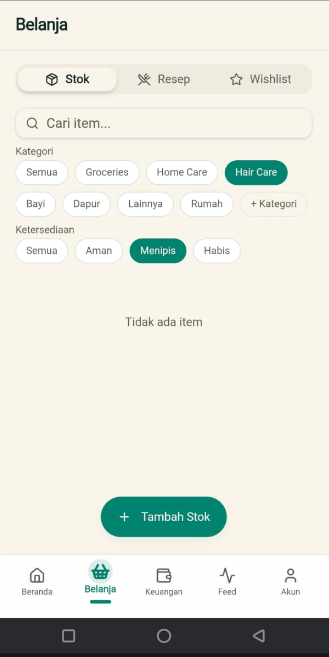
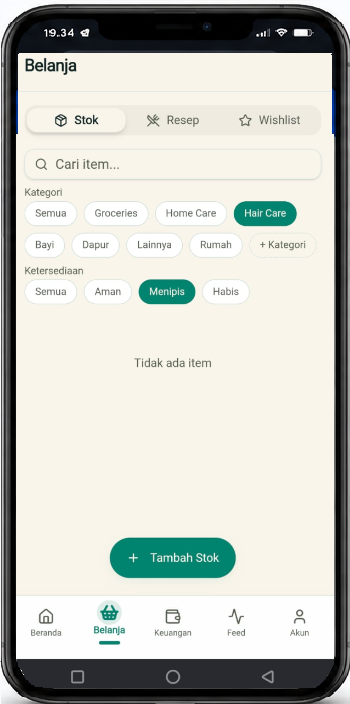
Update landing components, subscription gate, and various route pages

Changed region(s): [[0.0, 0.0, 1.0, 1.0], [0.304, 0.7306, 0.6991, 0.8219], [0.3647, 0.4871, 0.6079, 0.5479]]

diff --git a/src/routes/app.belanja.tsx b/src/routes/app.belanja.tsx
@@ -1,7 +1,8 @@
-import { createFileRoute } from "@tanstack/react-router";
+import { createFileRoute, Link } from "@tanstack/react-router";
 import { MainLayout } from "@/components/layout/MainLayout";
 import { useAuth } from "@/hooks/useAuth";
 import { useLang } from "@/hooks/useLang";
+import { useSubscriptionGate } from "@/hooks/useSubscriptionGate";
 import { useQuery, useMutation, useQueryClient, useInfiniteQuery } from "@tanstack/react-query";
 import { supabase } from "@/integrations/supabase/client";
 import { Tabs, TabsContent, TabsList, TabsTrigger } from "@/components/ui/tabs";
@@ -11,7 +12,7 @@ import { Label } from "@/components/ui/label";
 import { Textarea } from "@/components/ui/textarea";
 import { Dialog, DialogContent, DialogHeader, DialogTitle, DialogTrigger, DialogFooter } from "@/components/ui/dialog";
 import { Select, SelectContent, SelectItem, SelectTrigger, SelectValue } from "@/components/ui/select";
-import { Plus, Trash2, Minus, Search, Edit2, ShoppingCart, Star, Package, UtensilsCrossed, Image as ImageIcon } from "lucide-react";
+import { Plus, Trash2, Minus, Search, Edit2, ShoppingCart, Star, Package, UtensilsCrossed, Image as ImageIcon, Lock } from "lucide-react";
 import { useState, useMemo, useRef, useEffect, useCallback } from "react";
 import { ConfirmDialog } from "@/components/ui/ConfirmDialog";
 import { toast } from "sonner";
@@ -33,8 +34,10 @@ const RECIPES_PER_PAGE = 12;
 
 function BelanjaPage() {
   const { T } = useLang();
+  const limits = useSubscriptionGate();
   const params = new URLSearchParams(typeof window !== "undefined" ? window.location.search : "");
-  const initialTab = params.get("tab") === "wishlist" ? "wishlist" : params.get("tab") === "recipe" ? "recipe" : "stock";
+  const wishlistParam = params.get("tab") === "wishlist";
+  const initialTab = wishlistParam && !limits.canAccessWishlist ? "stock" : params.get("tab") === "wishlist" ? "wishlist" : params.get("tab") === "recipe" ? "recipe" : "stock";
   const [activeTab, setActiveTab] = useState(initialTab);
 
   return (
@@ -47,9 +50,30 @@ function BelanjaPage() {
         </TabsList>
         <TabsContent value="stock" className="mt-4"><StockTab /></TabsContent>
         <TabsContent value="recipe" className="mt-4"><RecipeTab /></TabsContent>
-        <TabsContent value="wishlist" className="mt-4"><WishlistTab /></TabsContent>
+        <TabsContent value="wishlist" className="mt-4">{limits.canAccessWishlist ? <WishlistTab /> : <WishlistPaywall />}</TabsContent>
       </Tabs>
     </MainLayout>
+  );
+}
+
+function WishlistPaywall() {
+  const { T } = useLang();
+  return (
+    <div className="flex flex-col items-center justify-center py-16 px-4 text-center">
+      <div className="h-16 w-16 rounded-2xl bg-muted flex items-center justify-center mb-4">
+        <Lock className="h-8 w-8 text-muted-foreground" />
+      </div>
+      <h1 className="text-xl font-bold mb-2">{T("Fitur Premium", "Premium Feature")}</h1>
+      <p className="text-sm text-muted-foreground mb-6 max-w-xs">
+        {T(
+          "Wishlist tersedia untuk paket Family. Upgrade sekarang untuk mengelola wishlist belanja keluarga.",
+          "Wishlist is available for Family plan. Upgrade now to manage family shopping wishlist."
+        )}
+      </p>
+      <Button asChild className="rounded-xl">
+        <Link to="/aktivasi">{T("Upgrade ke Family", "Upgrade to Family")}</Link>
+      </Button>
+    </div>
   );
 }
 

diff --git a/src/routes/app.keuangan.tsx b/src/routes/app.keuangan.tsx
@@ -1,8 +1,9 @@
-import { createFileRoute, useNavigate } from "@tanstack/react-router";
+import { createFileRoute, useNavigate, Link } from "@tanstack/react-router";
 import { z } from "zod";
 import { MainLayout } from "@/components/layout/MainLayout";
 import { useAuth } from "@/hooks/useAuth";
 import { useLang } from "@/hooks/useLang";
+import { useSubscriptionGate } from "@/hooks/useSubscriptionGate";
 import { useQuery, useMutation, useQueryClient } from "@tanstack/react-query";
 import { supabase } from "@/integrations/supabase/client";
 import { formatRupiah, cn, daysUntil, normalizePhone } from "@/lib/utils";
@@ -10,7 +11,7 @@ import { useState, useMemo, useRef } from "react";
 import { toast } from "sonner";
 import {
   Plus, Trash2, MessageCircle, ChevronDown, FileDown, Search,
-  TrendingDown, Coins, Wallet, Banknote, Calendar, ReceiptText, CheckCircle2, BellRing,
+  TrendingDown, Coins, Wallet, Banknote, Calendar, ReceiptText, CheckCircle2, BellRing, Lock,
 } from "lucide-react";
 import { Button } from "@/components/ui/button";
 import { Input } from "@/components/ui/input";
@@ -39,7 +40,30 @@ export const Route = createFileRoute("/app/keuangan")({
 function KeuanganPage() {
   const { profile, family } = useAuth();
   const { T } = useLang();
+  const limits = useSubscriptionGate();
   const familyId = family?.id;
+
+  if (!limits.canAccessFinance) {
+    return (
+      <MainLayout>
+        <div className="flex flex-col items-center justify-center py-16 px-4 text-center">
+          <div className="h-16 w-16 rounded-2xl bg-muted flex items-center justify-center mb-4">
+            <Lock className="h-8 w-8 text-muted-foreground" />
+          </div>
+          <h1 className="text-xl font-bold mb-2">{T("Fitur Premium", "Premium Feature")}</h1>
+          <p className="text-sm text-muted-foreground mb-6 max-w-xs">
+            {T(
+              "Keuangan tersedia untuk paket Family. Upgrade sekarang untuk mengelola tagihan dan hutang piutang keluarga.",
+              "Finance is available for Family plan. Upgrade now to manage bills and family debts."
+            )}
+          </p>
+          <Button asChild className="rounded-xl">
+            <Link to="/aktivasi">{T("Upgrade ke Family", "Upgrade to Family")}</Link>
+          </Button>
+        </div>
+      </MainLayout>
+    );
+  }
   const qc = useQueryClient();
   const navigate = useNavigate({ from: "/app/keuangan" });
   const search = Route.useSearch();

diff --git a/src/routes/app.akun.tsx b/src/routes/app.akun.tsx
@@ -21,6 +21,7 @@ import {
 import { cn, initials, normalizePhone, timeAgo } from "@/lib/utils";
 import { useTheme } from "@/hooks/useTheme";
 import { useLang } from "@/hooks/useLang";
+import { useSubscriptionGate } from "@/hooks/useSubscriptionGate";
 
 export const Route = createFileRoute("/app/akun")({
   head: () => ({ meta: [{ title: "Akun — Rewang" }] }),
@@ -29,6 +30,7 @@ export const Route = createFileRoute("/app/akun")({
 
 function AkunPage() {
   const { profile, family, signOut } = useAuth();
+  const limits = useSubscriptionGate();
   const navigate = useNavigate();
   const handleSignOut = async () => { await signOut(); navigate({ to: "/login" }); };
 
@@ -36,13 +38,13 @@ function AkunPage() {
     <MainLayout title="Akun">
       <ProfileSection />
 
-      <FamilySection />
+      <FamilySection limits={limits} />
 
       <EmergencyContactsSection familyId={family?.id} />
 
       <DocumentsSection familyId={family?.id} />
 
-      <WishlistShortcut familyId={family?.id} />
+      {limits.canAccessWishlist && <WishlistShortcut familyId={family?.id} />}
 
       <SettingsSection onSignOut={handleSignOut} />
 
@@ -125,7 +127,7 @@ function ProfileSection() {
 
 /* ============== FAMILY ============== */
 
-function FamilySection() {
+function FamilySection({ limits }: { limits?: { canAccessWishlist?: boolean } }) {
   const { family, profile } = useAuth();
   const qc = useQueryClient();
 
@@ -155,14 +157,16 @@ function FamilySection() {
       </div>
       <p className="text-sm text-muted-foreground mb-2">{family?.family_name}</p>
 
-      <div className="bg-gradient-to-br from-accent/40 to-secondary rounded-xl p-3 mb-4">
-        <p className="text-[10px] uppercase tracking-wider text-muted-foreground font-semibold mb-1">Kode undangan</p>
-        <div className="flex items-center gap-2">
-          <p className="font-mono text-2xl tracking-[0.3em] font-bold text-primary flex-1">{family?.invite_code ?? ""}</p>
-          <Button size="icon" variant="outline" onClick={copyCode}><Copy className="h-4 w-4" /></Button>
+      {limits?.canAccessWishlist !== false && (
+        <div className="bg-gradient-to-br from-accent/40 to-secondary rounded-xl p-3 mb-4">
+          <p className="text-[10px] uppercase tracking-wider text-muted-foreground font-semibold mb-1">Kode undangan</p>
+          <div className="flex items-center gap-2">
+            <p className="font-mono text-2xl tracking-[0.3em] font-bold text-primary flex-1">{family?.invite_code ?? ""}</p>
+            <Button size="icon" variant="outline" onClick={copyCode}><Copy className="h-4 w-4" /></Button>
+          </div>
+          <p className="text-[11px] text-muted-foreground mt-1.5">Bagikan ke anggota keluarga untuk bergabung</p>
         </div>
-        <p className="text-[11px] text-muted-foreground mt-1.5">Bagikan ke anggota keluarga untuk bergabung</p>
-      </div>
+      )}
 
       <p className="text-xs font-semibold text-muted-foreground mb-2">Anggota ({members.length})</p>
       <div className="space-y-2">

diff --git a/src/routes/admin-rewang-control.tsx b/src/routes/admin-rewang-control.tsx
@@ -54,6 +54,7 @@ interface ProfileRow {
   is_active?: boolean | null;
   subscription_tier?: string | null;
   subscription_expires_at?: string | null;
+  last_active_at?: string | null;
 }
 
 interface EditableUser {
@@ -141,7 +142,7 @@ function AdminPanelContent({
       const { data, error } = await supabase
         .from("profiles")
         .select(
-          "id, email, full_name, avatar_url, role, is_active, subscription_tier, subscription_expires_at",
+          "id, email, full_name, avatar_url, role, is_active, subscription_tier, subscription_expires_at, last_active_at",
         )
         .order("email", { ascending: true });
 
@@ -283,6 +284,9 @@ function AdminPanelContent({
       Tier: user.subscription_tier || "none",
       Expired: user.subscription_expires_at
         ? new Date(user.subscription_expires_at).toLocaleDateString("id-ID")
+        : "-",
+      "Last Login": user.last_active_at
+        ? new Date(user.last_active_at).toLocaleDateString("id-ID", { day: "numeric", month: "short", year: "numeric" }) + " " + new Date(user.last_active_at).toLocaleTimeString("id-ID", { hour: "2-digit", minute: "2-digit" })
         : "-",
     }));
 
@@ -549,6 +553,9 @@ function AdminPanelContent({
                       </div>
                     </th>
                     <th className="px-4 py-3 font-medium text-[#6b7d6a]">
+                      Last Login
+                    </th>
+                    <th className="px-4 py-3 font-medium text-[#6b7d6a]">
                       Aksi
                     </th>
                   </tr>
@@ -651,6 +658,14 @@ function AdminPanelContent({
                             disabled={isExpiredDisabled}
                             className={`rounded-lg border px-2.5 py-1.5 text-xs transition-all focus:outline-none focus:ring-2 focus:ring-[#52b788]/30 ${isExpiredDisabled ? "bg-gray-100 border-gray-100 text-gray-300 cursor-not-allowed" : editable.subscription_expires_at ? "bg-white border-gray-200 text-gray-900" : "bg-gray-50 border-gray-100 text-gray-400"}`}
                           />
+                        </td>
+
+                        <td className="px-4 py-3">
+                          <span className="text-xs text-[#6b7d6a]">
+                            {user.last_active_at
+                              ? new Date(user.last_active_at).toLocaleDateString("id-ID", { day: "numeric", month: "short", year: "numeric" }) + " " + new Date(user.last_active_at).toLocaleTimeString("id-ID", { hour: "2-digit", minute: "2-digit" })
+                              : "—"}
+                          </span>
                         </td>
 
                         <td className="px-4 py-3">

diff --git a/src/components/landing/HeroSection.tsx b/src/components/landing/HeroSection.tsx
@@ -10,24 +10,32 @@ import {
   ChevronRight,
 } from "lucide-react";
 
+const bannerVersion = "v2"; // bump this when replacing banner images
+
+function getWaUrl() {
+  const base = "https://wa.me/6281294097650";
+  const text = "Halo Admin Rewang %F0%9F%91%8B%0A%0ASaya tertarik dengan Rewang App dan ingin informasi lebih lanjut mengenai paket langganan yang tersedia.%0A%0ATerima kasih %F0%9F%98%8A";
+  return `${base}?text=${text}`;
+}
+
 const slides = [
   {
     id: 1,
     title: "Dashboard",
     subtitle: "Semua dalam satu layar",
-    image: "/images/banner/1.png",
+    image: `/images/banner/1.png?${bannerVersion}`,
   },
   {
     id: 2,
     title: "Agenda & Tugas",
     subtitle: "Atur jadwal keluarga",
-    image: "/images/banner/2.png",
+    image: `/images/banner/2.png?${bannerVersion}`,
   },
   {
     id: 3,
     title: "Belanja & Keuangan",
     subtitle: "Pantau pengeluaran",
-    image: "/images/banner/3.png",
+    image: `/images/banner/3.png?${bannerVersion}`,
   },
 ];
 
@@ -111,7 +119,7 @@ export function HeroSection() {
                 <ArrowRight className="h-5 w-5 transition-transform group-hover:translate-x-1" />
               </Link>
               <a
-                href="https://wa.me/6281311474713"
+                href={getWaUrl()}
                 target="_blank"
                 rel="noopener noreferrer"
                 className="group inline-flex items-center gap-2 rounded-2xl border-2 border-[#b5c99a] bg-white/80 backdrop-blur-sm px-8 py-4 text-base font-semibold text-[#4a6b5d] hover:bg-[#e8f5e9] hover:border-[#7d9b76] shadow-soft transition-all duration-300"

diff --git a/src/components/landing/PricingSection.tsx b/src/components/landing/PricingSection.tsx
@@ -1,6 +1,14 @@
 import { Check, Zap, Star } from "lucide-react";
 import { Link } from "@tanstack/react-router";
 
+function getWaUrl(planName?: string) {
+  const base = "https://wa.me/6281294097650";
+  const text = planName
+    ? `Halo Admin Rewang %F0%9F%91%8B%0A%0ASaya ingin berlangganan Paket ${planName} untuk penggunaan Rewang App.%0A%0AMohon informasi mengenai proses pembayaran dan aktivasi akun.%0A%0ATerima kasih %F0%9F%98%8A`
+    : "Halo Admin Rewang %F0%9F%91%8B%0A%0ASaya tertarik dengan Rewang App dan ingin informasi lebih lanjut mengenai paket langganan yang tersedia.%0A%0ATerima kasih %F0%9F%98%8A";
+  return `${base}?text=${text}`;
+}
+
 const plans = [
   {
     name: "Starter",
@@ -121,7 +129,7 @@ export function PricingSection() {
 
               {/* CTA */}
               <a
-                href="https://wa.me/6281311474713"
+                href={getWaUrl(plan.name)}
                 target="_blank"
                 rel="noopener noreferrer"
                 className={`block w-full text-center rounded-2xl px-6 py-3.5 text-sm font-semibold transition-all duration-300 ${plan.buttonStyle}`}
@@ -136,7 +144,7 @@ export function PricingSection() {
         <p className="text-center text-sm text-[#9db5a6] mt-8">
           Butuh bantuan memilih?{" "}
           <a
-            href="https://wa.me/6281311474713"
+            href={getWaUrl()}
             target="_blank"
             rel="noopener noreferrer"
             className="text-[#52b788] font-semibold hover:underline"

diff --git a/src/components/landing/CTASection.tsx b/src/components/landing/CTASection.tsx
@@ -1,6 +1,12 @@
 import { MessageCircle, ArrowRight, Sparkles } from "lucide-react";
 import { Link } from "@tanstack/react-router";
 
+function getWaUrl() {
+  const base = "https://wa.me/6281294097650";
+  const text = "Halo Admin Rewang %F0%9F%91%8B%0A%0ASaya tertarik dengan Rewang App dan ingin informasi lebih lanjut mengenai paket langganan yang tersedia.%0A%0ATerima kasih %F0%9F%98%8A";
+  return `${base}?text=${text}`;
+}
+
 export function CTASection() {
   return (
     <section className="relative py-12 sm:py-16 lg:py-20 overflow-hidden">
@@ -43,7 +49,7 @@ export function CTASection() {
 
         <div className="mt-10 flex flex-col sm:flex-row items-center gap-4 justify-center">
           <a
-            href="https://wa.me/6281311474713"
+            href={getWaUrl()}
             target="_blank"
             rel="noopener noreferrer"
             className="group inline-flex items-center gap-2 rounded-2xl bg-white px-8 py-4 text-base font-semibold text-[#2d6a4f] shadow-2xl shadow-black/20 hover:shadow-xl hover:-translate-y-0.5 transition-all duration-300"

diff --git a/src/routes/app.tsx b/src/routes/app.tsx
@@ -48,7 +48,11 @@ function AppLayout() {
   // Cek apakah akun aktif, punya tier valid, dan belum expired
   const sekarang = new Date();
   const tanggalExpired = profile?.subscription_expires_at ? new Date(profile.subscription_expires_at) : null;
-  const akunTerkunci = !profile?.is_active || profile?.subscription_tier === "none" || (tanggalExpired && sekarang >= tanggalExpired);
+  // Expired at end of the expiration day (23:59:59), not start of day
+  const isExpired = tanggalExpired
+    ? sekarang >= new Date(tanggalExpired.getFullYear(), tanggalExpired.getMonth(), tanggalExpired.getDate() + 1)
+    : false;
+  const akunTerkunci = !profile?.is_active || profile?.subscription_tier === "none" || isExpired;
 
   if (akunTerkunci) {
     return <Navigate to="/aktivasi" replace />;

diff --git a/src/routes/aktivasi.tsx b/src/routes/aktivasi.tsx
@@ -61,7 +61,7 @@ const plans = [
 ];
 
 function getWaUrl(planName?: string) {
-  const base = "https://wa.me/6281311474713";
+  const base = "https://wa.me/6281294097650";
   const text = planName
     ? `Halo Admin Rewang %F0%9F%91%8B%0A%0ASaya ingin berlangganan Paket ${planName} untuk penggunaan Rewang App.%0A%0AMohon informasi mengenai proses pembayaran dan aktivasi akun.%0A%0ATerima kasih %F0%9F%98%8A`
     : "Halo Admin Rewang %F0%9F%91%8B%0A%0ASaya tertarik dengan Rewang App dan ingin informasi lebih lanjut mengenai paket langganan yang tersedia.%0A%0ATerima kasih %F0%9F%98%8A";
@@ -95,7 +95,8 @@ function AktivasiPage() {
 
   const tier = (profile?.subscription_tier as string) || "none";
   const expiresAt = profile?.subscription_expires_at;
-  const isExpired = expiresAt ? new Date(expiresAt) < new Date() : false;
+  // Expired at end of day, not start of day
+  const isExpired = expiresAt ? new Date() >= new Date(new Date(expiresAt).getFullYear(), new Date(expiresAt).getMonth(), new Date(expiresAt).getDate() + 1) : false;
 
   let statusBadge: {
     icon: React.ReactNode;

diff --git a/src/hooks/useSubscriptionGate.ts b/src/hooks/useSubscriptionGate.ts
@@ -59,10 +59,10 @@ export function useSubscriptionGate(): SubscriptionLimits {
     ? new Date(profile.subscription_expires_at)
     : null;
 
-  // Cek aktif & belum expired
+  // Cek aktif & belum expired (expired at end of day, 23:59:59)
   const isActive =
     profile.is_active === true &&
-    (!tanggalExpired || sekarang < tanggalExpired);
+    (!tanggalExpired || sekarang < new Date(tanggalExpired.getFullYear(), tanggalExpired.getMonth(), tanggalExpired.getDate() + 1));
 
   const tier = (profile.subscription_tier as SubscriptionTier) || "none";
 

diff --git a/src/routes/onboarding.tsx b/src/routes/onboarding.tsx
@@ -40,7 +40,7 @@ function OnboardingPage() {
   // Cek apakah akun terkunci sebelum mengizinkan onboarding
   const sekarang = new Date();
   const tanggalExpired = profile?.subscription_expires_at ? new Date(profile.subscription_expires_at) : null;
-  const akunTerkunci = !profile?.is_active || profile?.subscription_tier === "none" || (tanggalExpired && sekarang >= tanggalExpired);
+  const akunTerkunci = !profile?.is_active || profile?.subscription_tier === "none" || (tanggalExpired && sekarang >= new Date(tanggalExpired.getFullYear(), tanggalExpired.getMonth(), tanggalExpired.getDate() + 1));
 
   if (akunTerkunci) {
     return <Navigate to="/aktivasi" replace />;